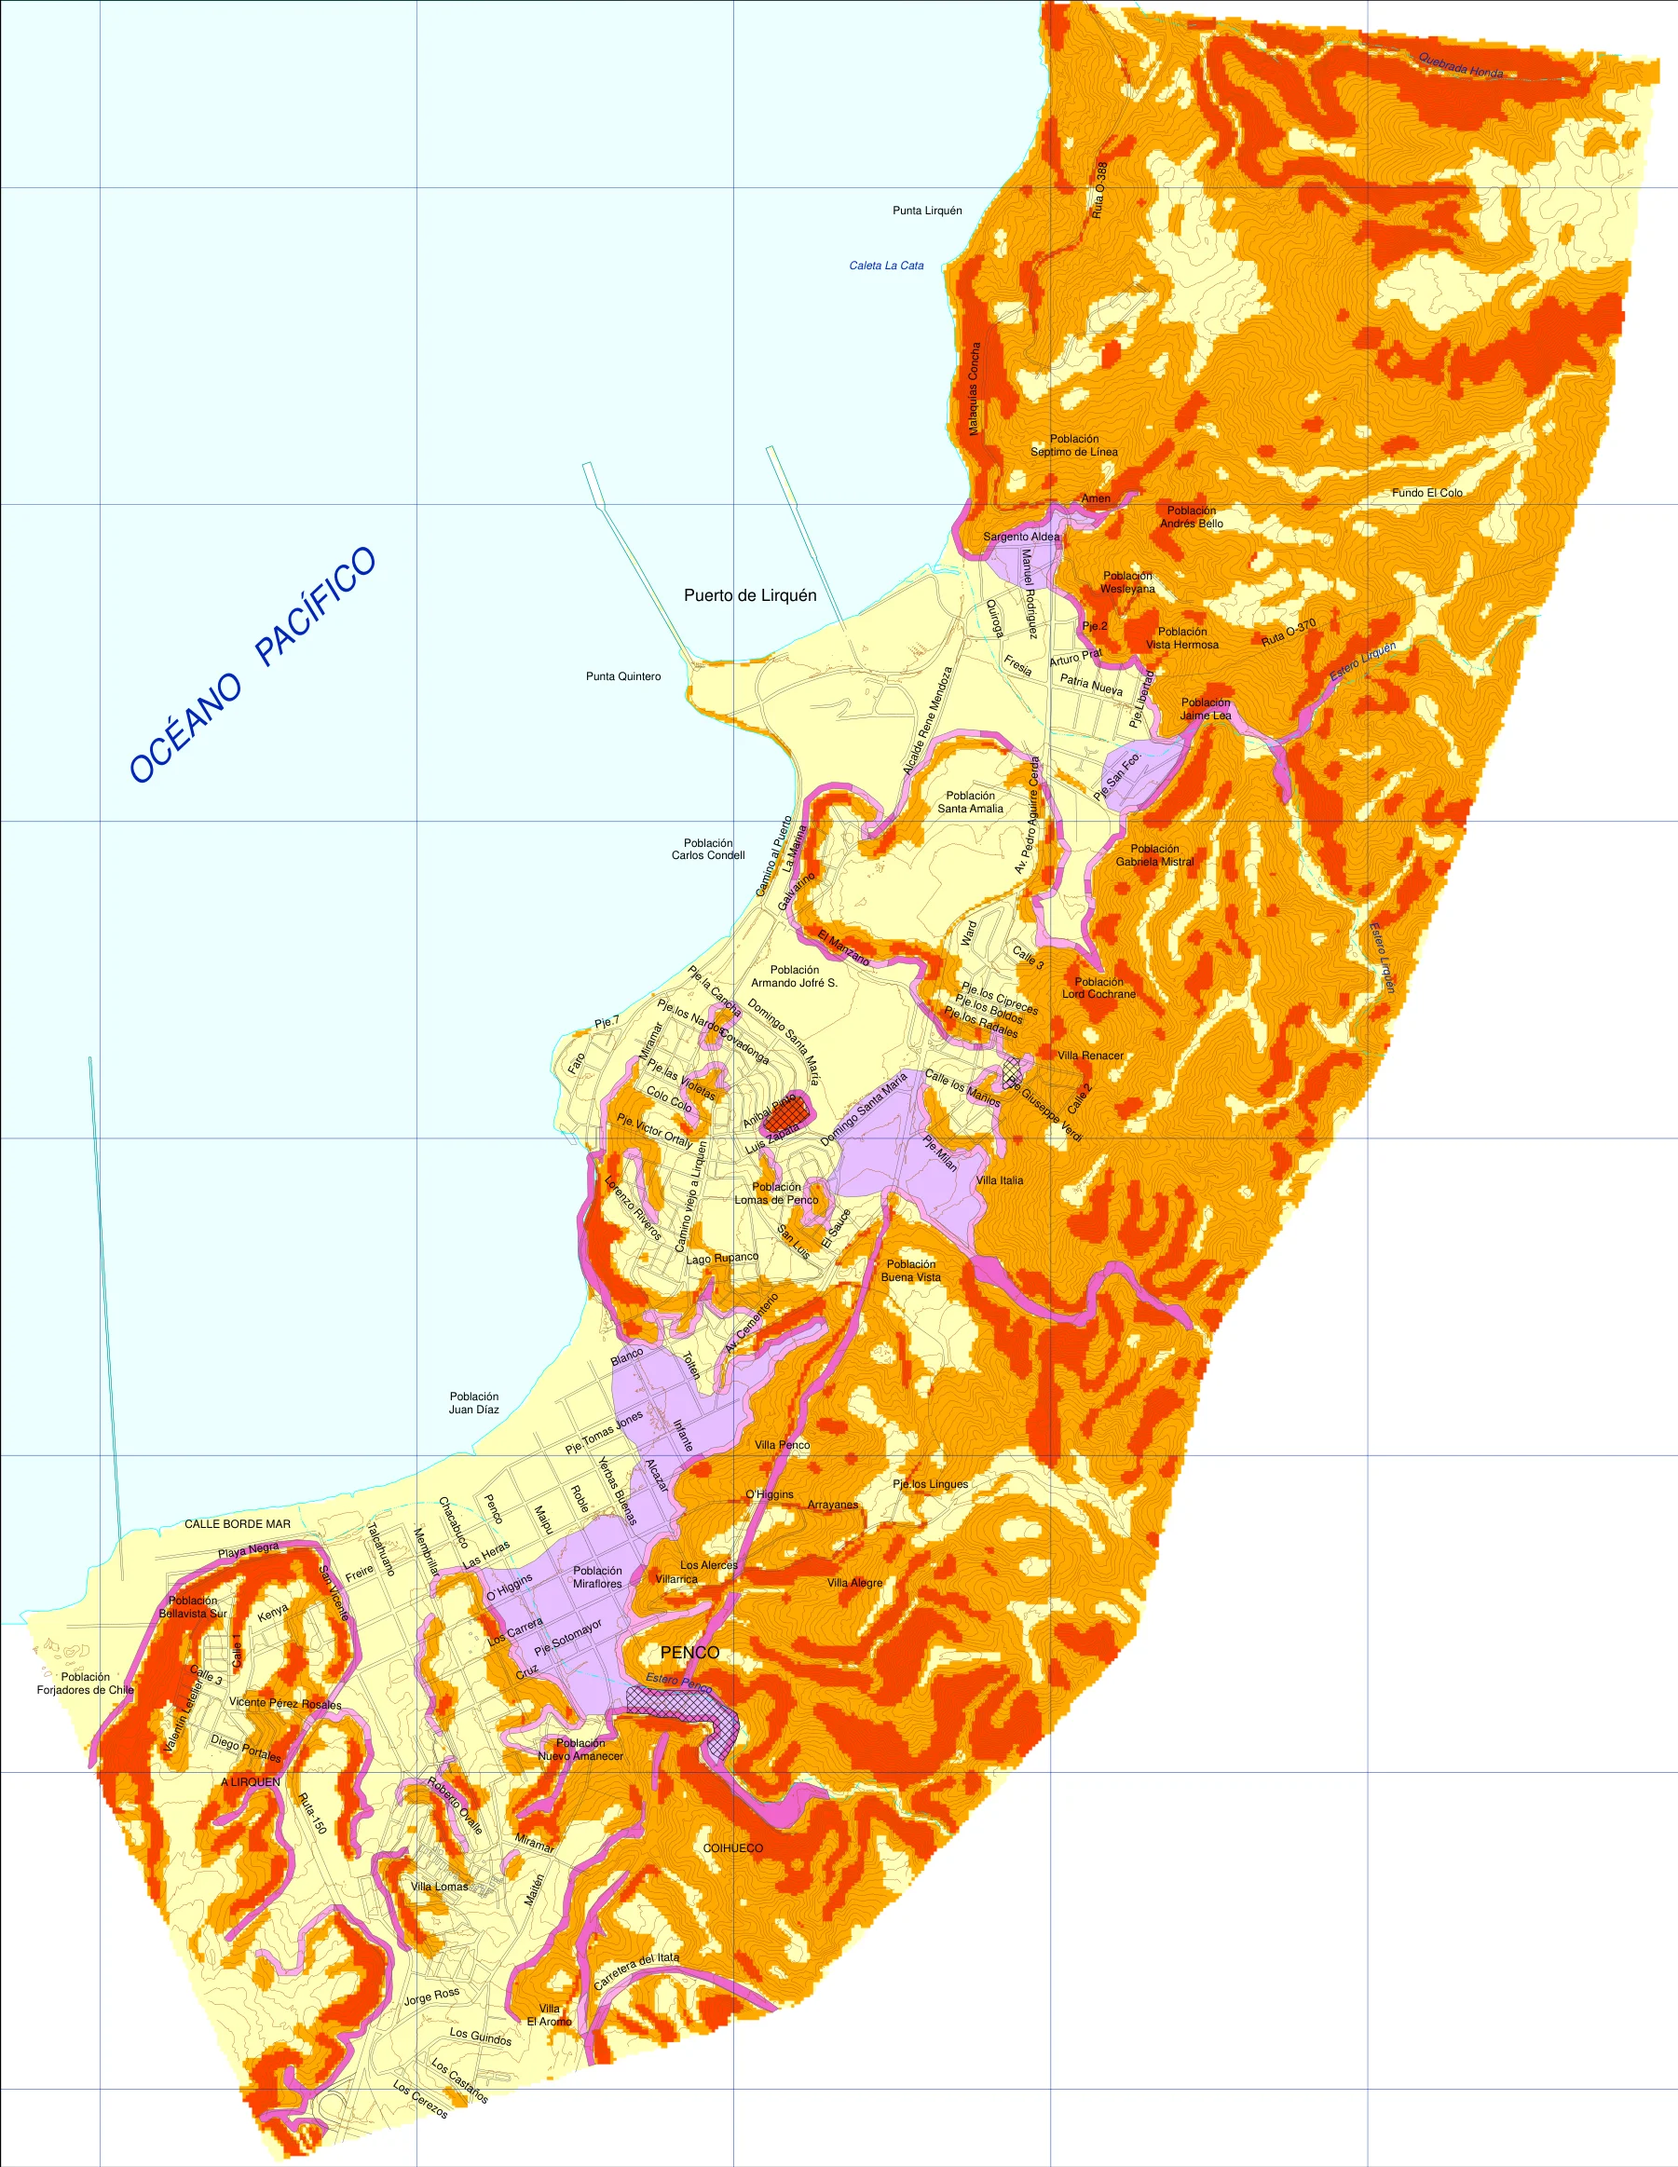
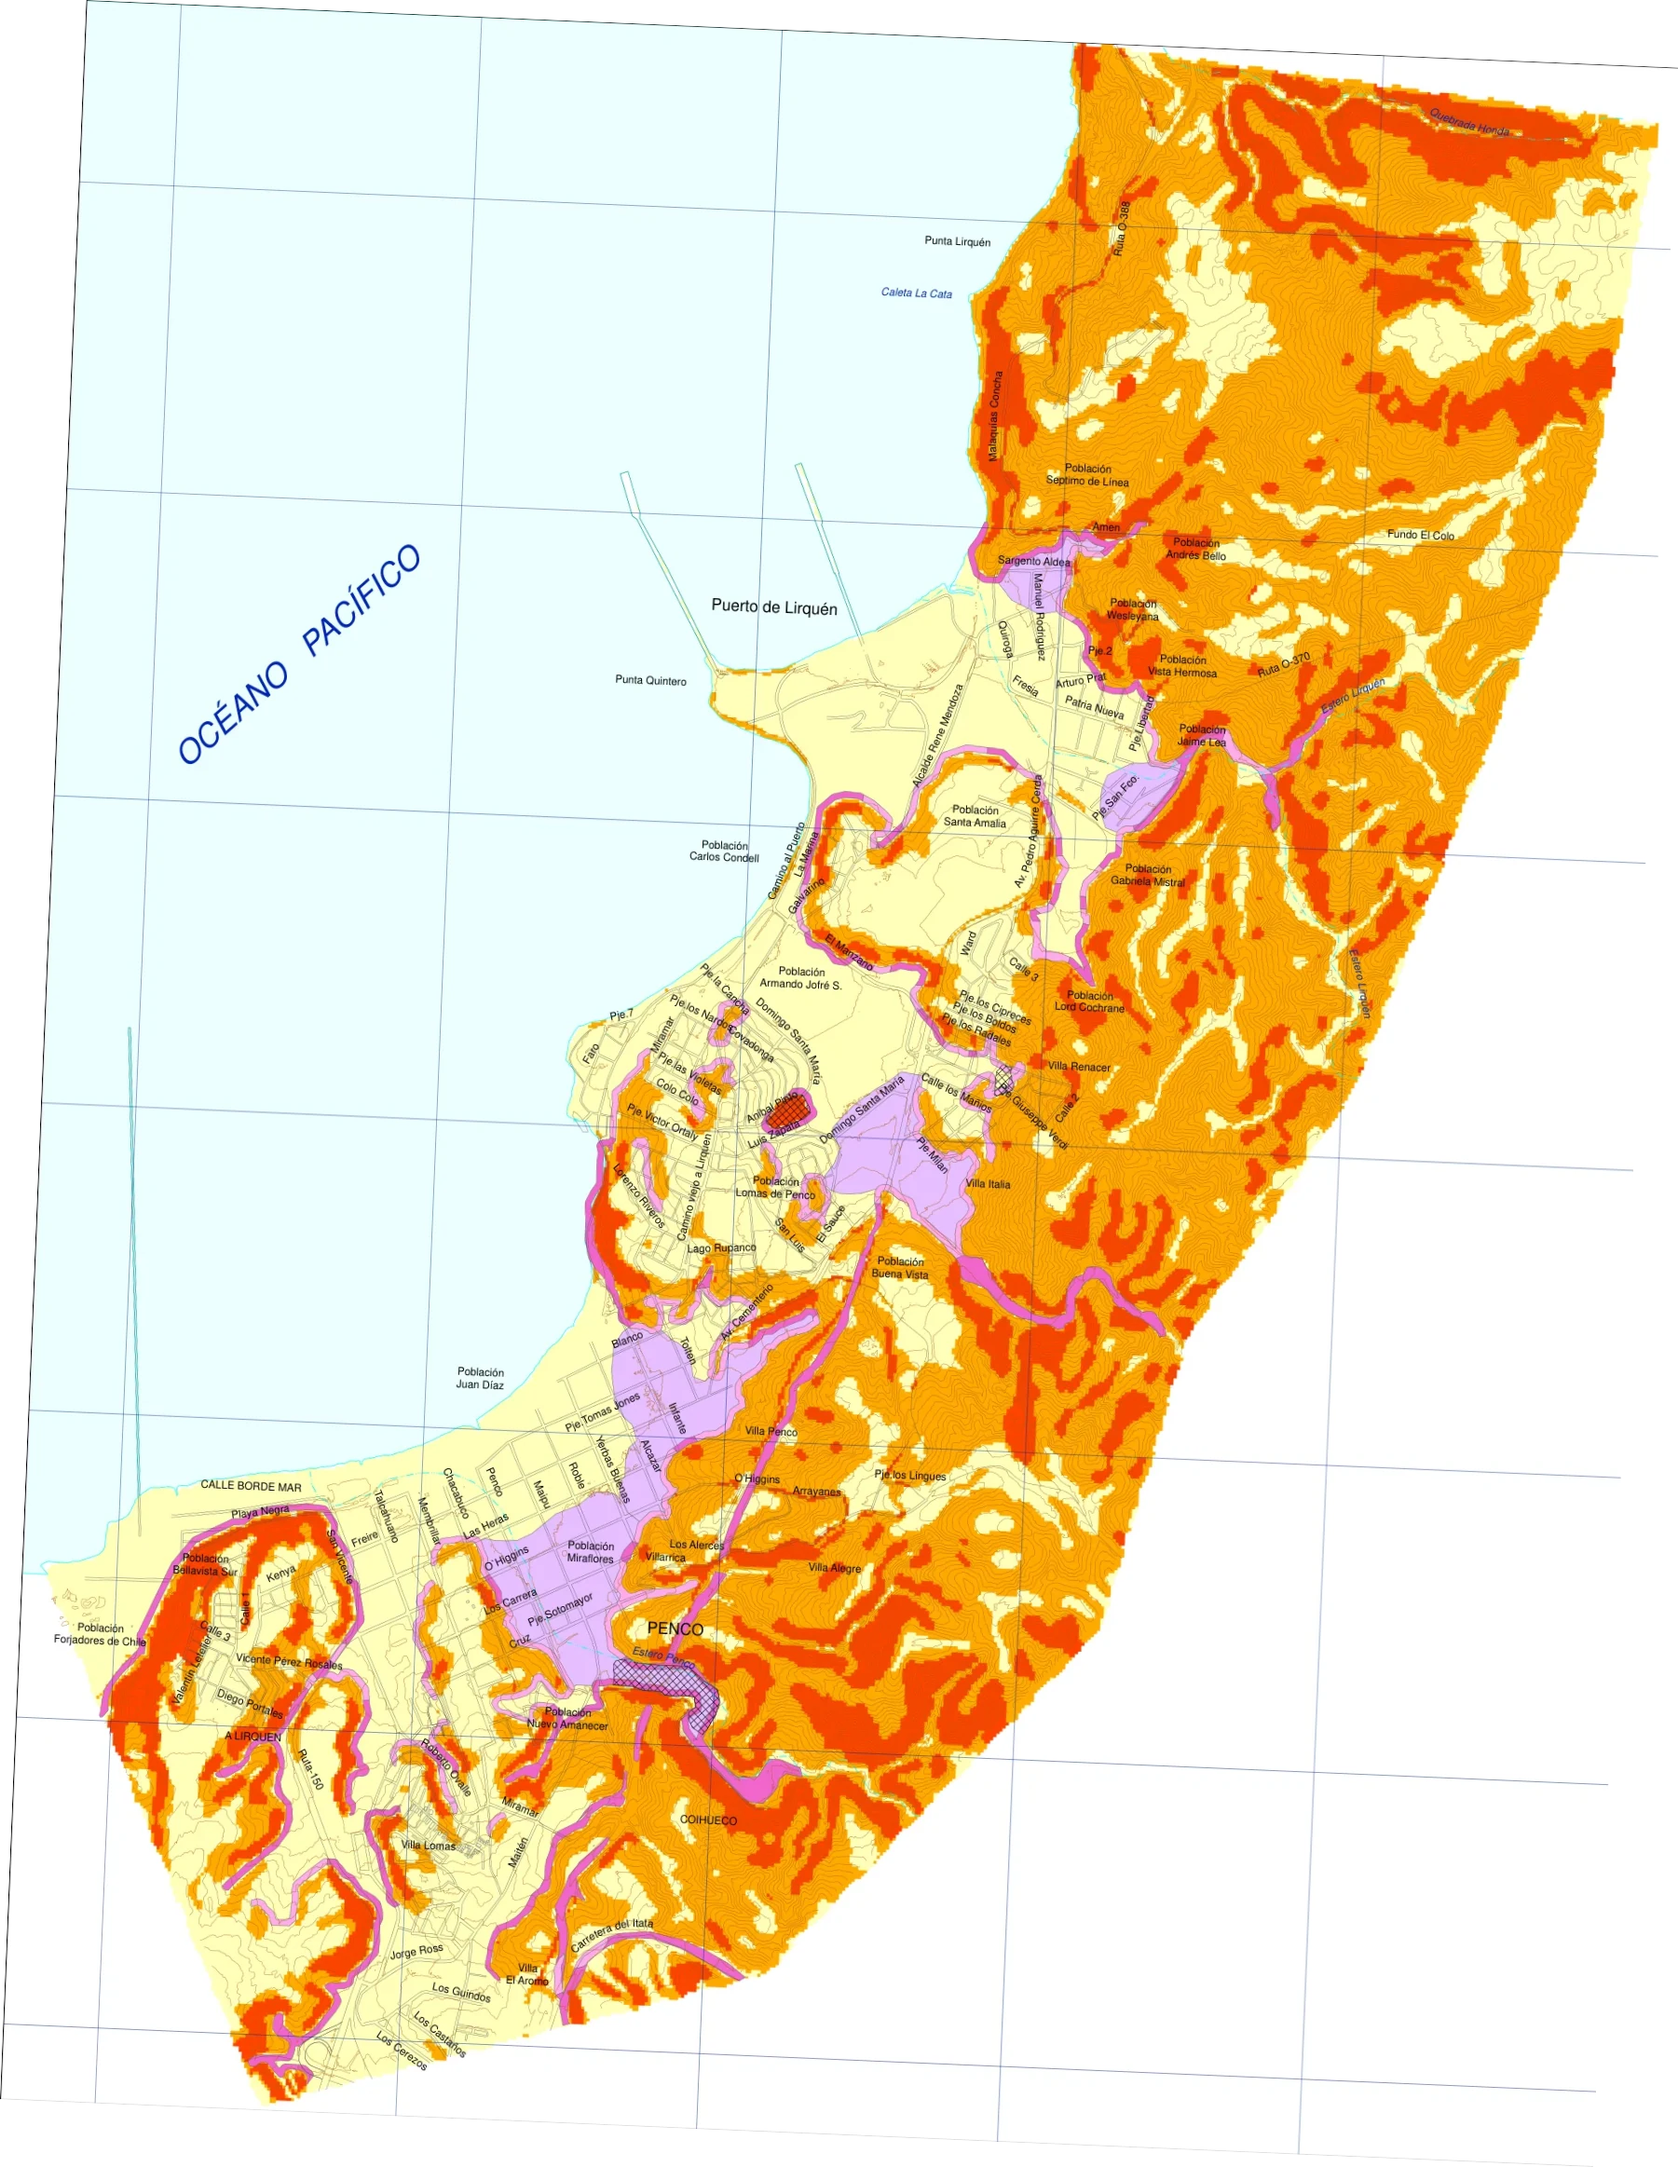
Peligros Biobío: 6 mapas reproyectados de UTM19S a geográficas (Tubul, Concepción A, Tirúa, Curanilahue, Penco, Punta Lavapié)
Las imágenes se georreferenciaron con la grilla UTM 19S impresa pero se publicaron como si fueran geográficas
(rotación ~2,5-3°). Tras reproyectar, la rotación medida con el DEM cae a ~0° y el desplazamiento baja en los 6.
ASSET_V=20261012e

diff --git a/index.html b/index.html
@@ -247,7 +247,7 @@
 <script>
 const CATS = [["geologia","🗺 Geología Básica"],["peligros","⚠ Peligros Geológicos"],["aplicada","🧪 Geología Aplicada"],
   ["historico","📜 Histórico"],["academico","🎓 Académicos"],["hillshade","🏔 Hillshade"]];
-const ASSET_V = '?v=20261012d';   // cache-bust de overlays/leyendas (subir al cambiar assets)
+const ASSET_V = '?v=20261012e';   // cache-bust de overlays/leyendas (subir al cambiar assets)
 const map = L.map('map',{center:[-33.9,-71.2],zoom:5});
 const bases = {
   "Satelital": L.tileLayer('https://server.arcgisonline.com/ArcGIS/rest/services/World_Imagery/MapServer/tile/{z}/{y}/{x}',{maxZoom:19,attribution:'Esri'}),
